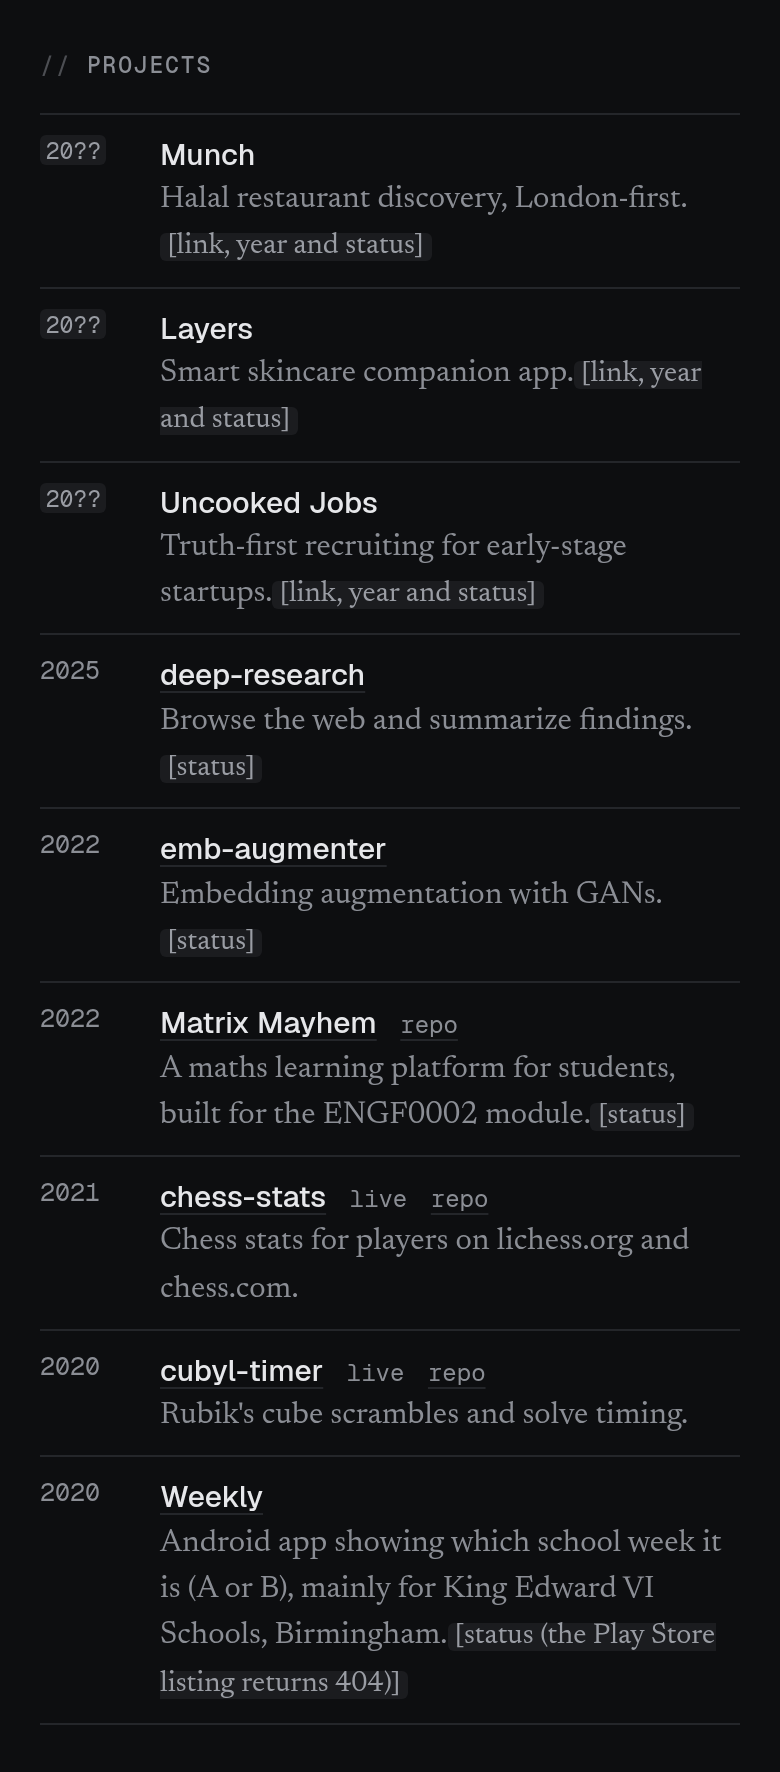
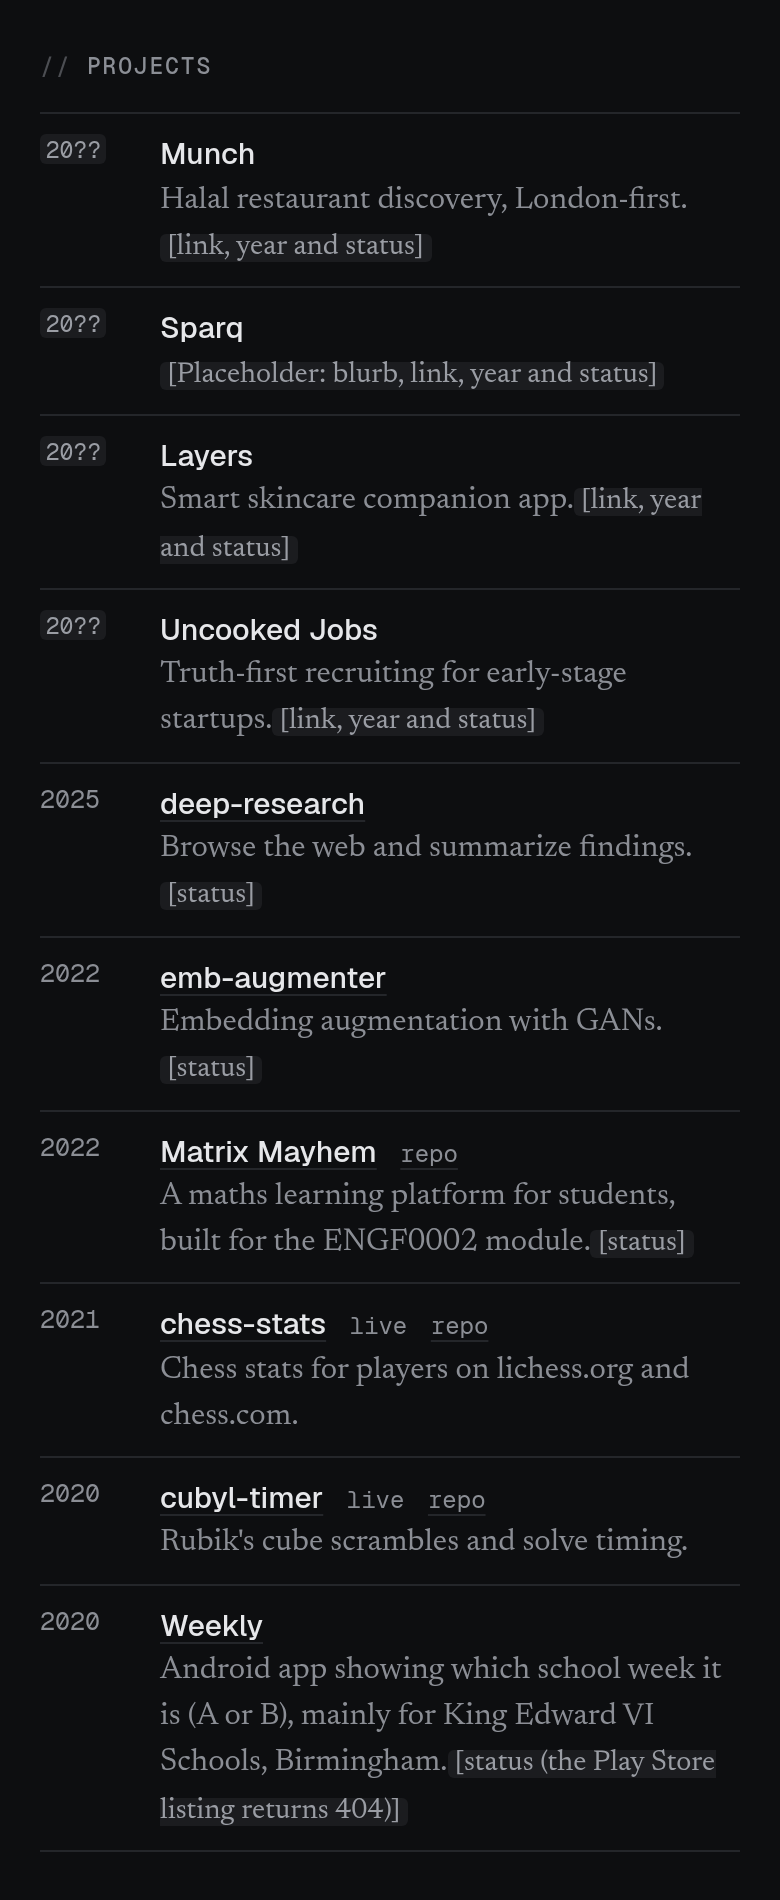
feat(site): add content from Imaad's Notion page and his country list
Adds the 'embrace the hard' margin note, hobbies, a highlights list, Sparq as a placeholder project, and 26 visited countries with Japan, Qatar and Pakistan as favourites. Countries too small to see on the map get a dot. The example travel render is removed.

diff --git a/src/styles/global.css b/src/styles/global.css
@@ -55,6 +55,7 @@ h2 {
   margin: 0 0 0.9rem; color: var(--muted); font-weight: 500;
   font-family: var(--mono); font-size: 11.5px; text-transform: uppercase; letter-spacing: 0.08em;
 }
+h3 { margin: 1.25rem 0 0.4rem; color: var(--muted); font-weight: 500; font-family: var(--mono); font-size: 11.5px; text-transform: uppercase; letter-spacing: 0.08em; }
 h2::before { content: '// '; opacity: 0.5; }
 p { margin: 0 0 0.9rem; }
 .prose, .prose p, .list, .note { font-family: var(--serif); font-size: 17px; line-height: 1.5; }
@@ -87,12 +88,14 @@ mark.ph { background: var(--mark); color: var(--mark-ink); padding: 0 0.25em; bo
 .books em { font-style: normal; color: var(--muted); font-size: 0.85em; margin-left: 0.35rem; }
 .books em.reading { color: var(--ink); }
 
-#gallery { position: relative; }
+#gallery, #now { position: relative; }
 .map { margin: 0.75rem 0 0; }
 .map svg { display: block; width: 100%; height: auto; }
 .map .land { fill: none; stroke: var(--muted); stroke-opacity: 0.55; stroke-width: 0.5; stroke-linejoin: round; vector-effect: non-scaling-stroke; }
 .map .visited { fill: var(--ink); fill-opacity: 0.85; stroke: var(--bg); stroke-width: 0.5; vector-effect: non-scaling-stroke; }
+.map .favourite { fill: var(--accent); fill-opacity: 1; }
 .map .visited:hover { fill: var(--accent); fill-opacity: 1; }
+.map circle.visited { stroke-width: 0.75; }
 .sr-only { position: absolute; width: 1px; height: 1px; overflow: hidden; clip-path: inset(50%); white-space: nowrap; }
 .grid { display: grid; grid-template-columns: repeat(3, 1fr); gap: 0.6rem; }
 figure { margin: 0; }
@@ -107,6 +110,7 @@ figcaption span { color: var(--muted); }
   color: var(--pencil); transform: rotate(-4deg); transform-origin: left center;
 }
 .hn-l { transform: rotate(3deg); }
+.hn-now { top: 2.4rem; transform: rotate(-5deg); }
 .hn-g { top: auto; bottom: 2.2rem; transform: rotate(-6deg); }
 
 footer { margin-top: 4rem; padding-top: 1.25rem; border-top: 1px solid var(--line); color: var(--muted); }

diff --git a/src/content.config.ts b/src/content.config.ts
@@ -6,7 +6,7 @@ const todo = z.string().optional()
 
 const now = defineCollection({
   loader: glob({ pattern: 'now.md', base: './src/content' }),
-  schema: z.object({ updated: z.coerce.date(), todo }),
+  schema: z.object({ updated: z.coerce.date(), aside: z.string().optional(), todo }),
 })
 
 const timeline = defineCollection({
@@ -27,6 +27,7 @@ const interests = defineCollection({
   loader: file('./src/content/interests.json'),
   schema: z.discriminatedUnion('kind', [
     z.object({ kind: z.literal('interest'), label: z.string().nullable(), todo }),
+    z.object({ kind: z.literal('highlight'), text: z.string() }),
     z.object({
       kind: z.literal('book'),
       title: z.string().nullable(),
@@ -55,6 +56,7 @@ const travel = defineCollection({
   loader: file('./src/content/travel.json'),
   schema: z.object({
     id: z.enum(alpha2),
+    favourite: z.boolean().default(false),
     year: z.number().int().optional(),
     note: z.string().optional(),
   }),

diff --git a/README.md b/README.md
@@ -20,17 +20,15 @@ All copy lives in `src/content/`. The schemas in `src/content.config.ts` validat
 
 | File | What it holds |
 | --- | --- |
-| `now.md` | The Now paragraph. `updated` drives "Last updated" and the footer date. |
+| `now.md` | The Now paragraph. `updated` drives "Last updated" and the footer date. `aside` is the handwritten note beside it. |
 | `timeline.json` | One row per role: `year`, `role`, `org`, optional `url`, `note`, `current` (adds the dot), and `aside` (the handwritten margin note). |
 | `projects.json` | One row per project: `name`, `blurb`, optional `url` and `repo`, `year`, and `status` (`live`, `archived`, `wip` or `null`). |
-| `interests.json` | Entries with `kind` set to `interest` or `book` (`status`: `reading` or `read`). |
-| `travel.json` | Visited countries: `[{ "id": "GB" }]`, with optional `year` and `note`. `id` must be an ISO 3166-1 alpha-2 code. The world map and the Travel count come from this file. |
+| `interests.json` | Entries with `kind` set to `interest`, `highlight` (`text`) or `book` (`status`: `reading` or `read`). |
+| `travel.json` | Visited countries: `{ "id": "JP", "favourite": true }`, with optional `year` and `note`. `id` must be an ISO 3166-1 alpha-2 code. The world map, its favourites (in teal) and the Travel count come from this file. Countries too small to see get a dot. |
 | `links.json` | The links used in the Links sentence. `id` is one of `x`, `instagram`, `youtube`, `github`, `linkedin`, `email`. For email, `url` is the bare address. |
 | `gallery/*.json` | One file per photo: `image` (a path next to the JSON file), `caption`, `place`, `date`. |
 
 Placeholders follow one rule. Set a value to `null` and give a `todo` to show a grey `[Placeholder: …]` mark. Keep a value and add a `todo` to show it with a small `[todo]` mark. Delete the `todo` once the content is real. `npm run todos` lists what is left.
-
-`TRAVEL_EXAMPLE=1 npm run build` renders the map with a labelled example list for screenshots. Never deploy with it set.
 
 To add a photo, drop the image into `src/content/gallery/` and add a JSON file next to it. Astro resizes it to WebP at build time.
 

diff --git a/src/content/now.md b/src/content/now.md
@@ -1,5 +1,6 @@
 ---
 updated: 2026-10-18
+aside: embrace the hard
 todo: 2 to 4 lines in Imaad's own words
 ---
 
